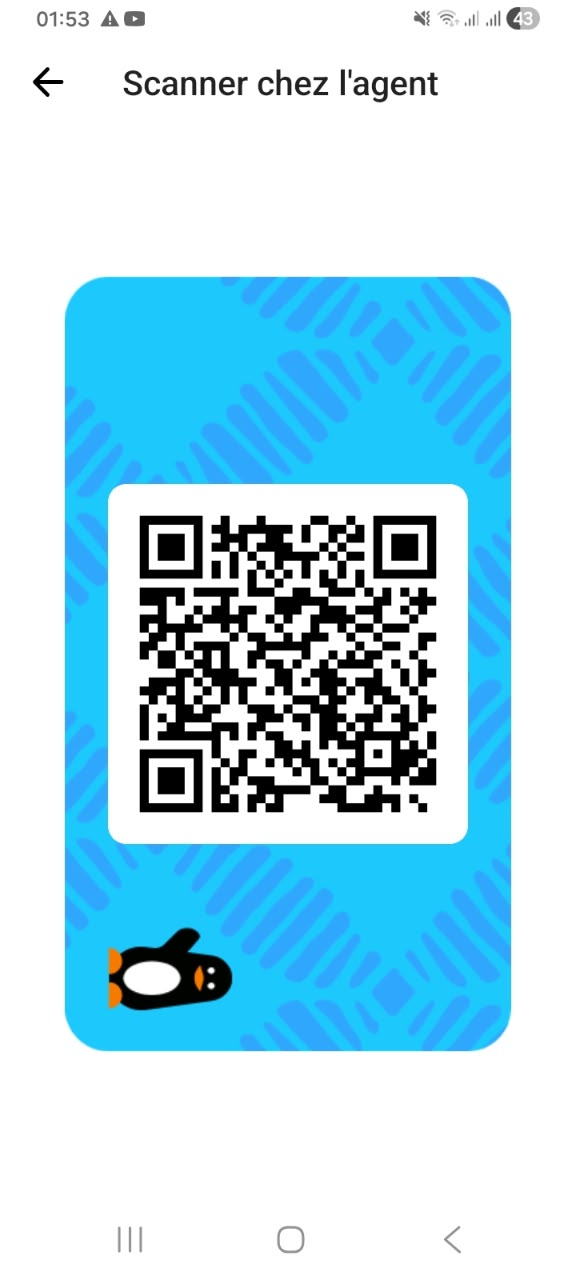
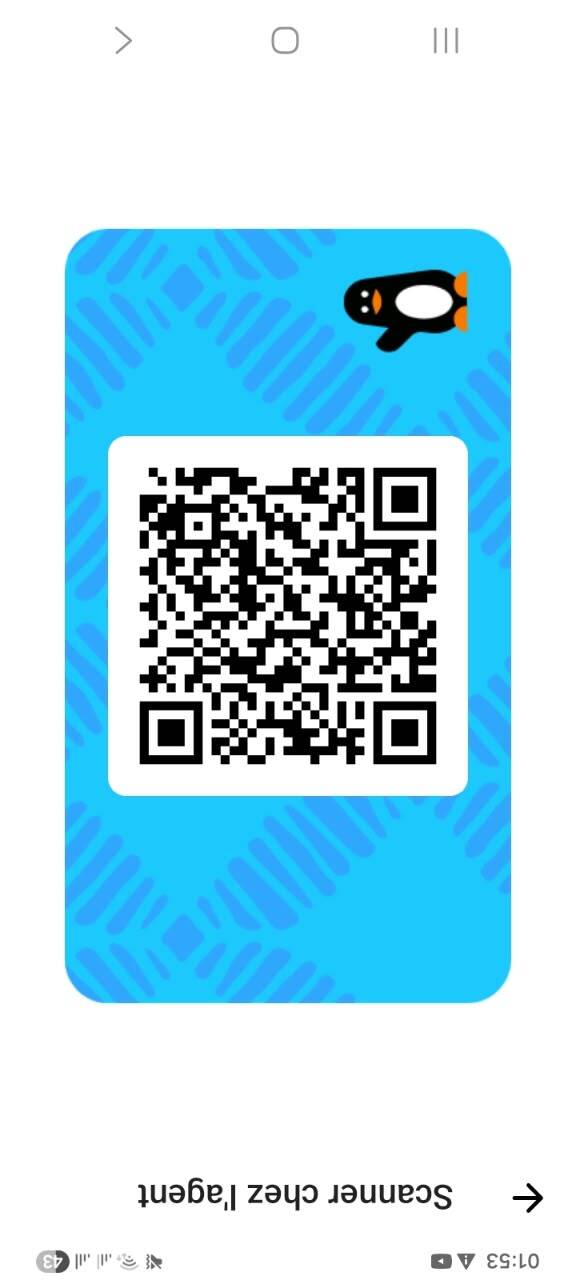
fix: supprimer bouton Wave, QR agrandi 200px + rotation 180° pingouin

diff --git a/src/App.jsx b/src/App.jsx
@@ -6402,19 +6402,13 @@ const CasePage = ({ c, setPage, lang, user }) => {
                 {sbProvider==="WAVE"&&(
                   <div style={{background:"#eff6ff",border:"1.5px solid #93c5fd",borderRadius:14,padding:"14px",marginBottom:12}}>
                     <div style={{fontWeight:800,fontSize:12,color:"#1d4ed8",marginBottom:10}}>〰 {lang==="fr"?"Comment payer via Wave :":"How to pay via Wave:"}</div>
-                    {/* BOUTON PRINCIPAL cliquable */}
-                    <a href="https://pay.wave.com/m/M_ci_PJosg8FuvJDW/c/ci/" target="_blank" rel="noopener noreferrer"
-                      style={{display:"flex",alignItems:"center",justifyContent:"center",gap:10,background:"#2563eb",color:"#fff",fontWeight:900,fontSize:15,borderRadius:14,padding:"14px 16px",marginBottom:12,textDecoration:"none",boxShadow:"0 4px 12px #2563eb55"}}>
-                      🌊 {lang==="fr"?"Appuyez ici pour payer":"Tap here to pay"}
-                    </a>
-                    <p style={{fontSize:10,color:"#6b7280",textAlign:"center",marginBottom:10}}>👆 {lang==="fr"?"Ce bouton ouvre Wave directement sur votre téléphone":"This button opens Wave directly on your phone"}</p>
-                    {/* QR cliquable centré */}
-                    <div style={{background:"#dbeafe",borderRadius:10,padding:"12px",marginBottom:10,display:"flex",flexDirection:"column",alignItems:"center",gap:8}}>
-                      <p style={{fontSize:11,color:"#1e40af",fontWeight:700,textAlign:"center",margin:"0 0 4px"}}>
+                    {/* QR cliquable centré — grand */}
+                    <div style={{background:"#dbeafe",borderRadius:10,padding:"16px",marginBottom:10,display:"flex",flexDirection:"column",alignItems:"center",gap:10}}>
+                      <p style={{fontSize:12,color:"#1e40af",fontWeight:700,textAlign:"center",margin:"0 0 4px"}}>
                         👆 {lang==="fr"?"Cliquez sur le QR Code pour donner si vous êtes sur mobile ou ordinateur":"Click the QR Code to donate from mobile or computer"}
                       </p>
                       <a href="https://pay.wave.com/m/M_ci_PJosg8FuvJDW/c/ci/" target="_blank" rel="noopener noreferrer">
-                        <img src="/qr_wave_real.jpg" alt="QR Wave" style={{width:130,height:130,borderRadius:12,border:"3px solid #2563eb",display:"block",boxShadow:"0 2px 10px #2563eb33"}} />
+                        <img src="/qr_wave_real.jpg" alt="QR Wave" style={{width:200,height:200,borderRadius:14,border:"4px solid #2563eb",display:"block",boxShadow:"0 4px 16px #2563eb44"}} />
                       </a>
                       <div style={{textAlign:"center"}}>
                         <div style={{fontSize:10,color:"#1e40af",fontWeight:700,marginBottom:2}}>{lang==="fr"?"Numéro Wave AYYAD :":"AYYAD Wave number:"}</div>
